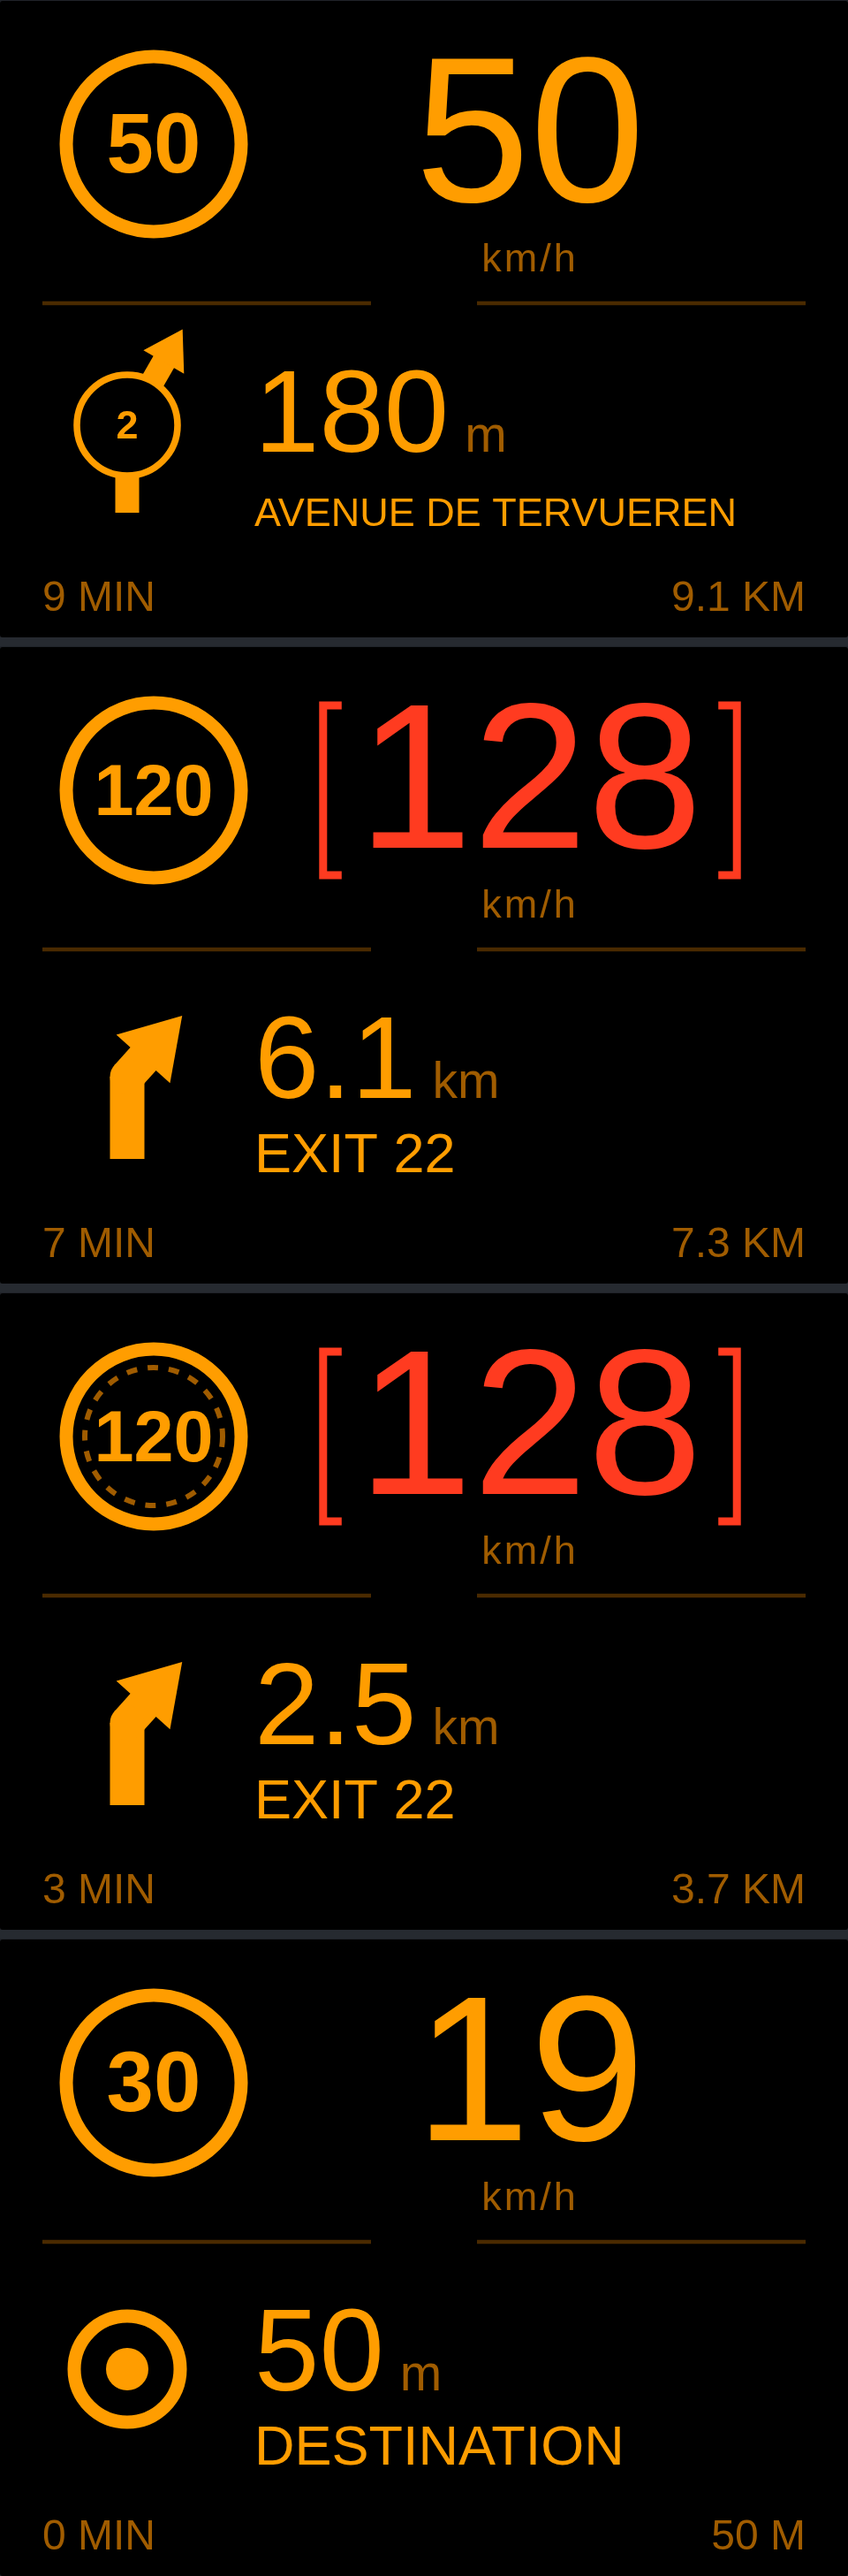
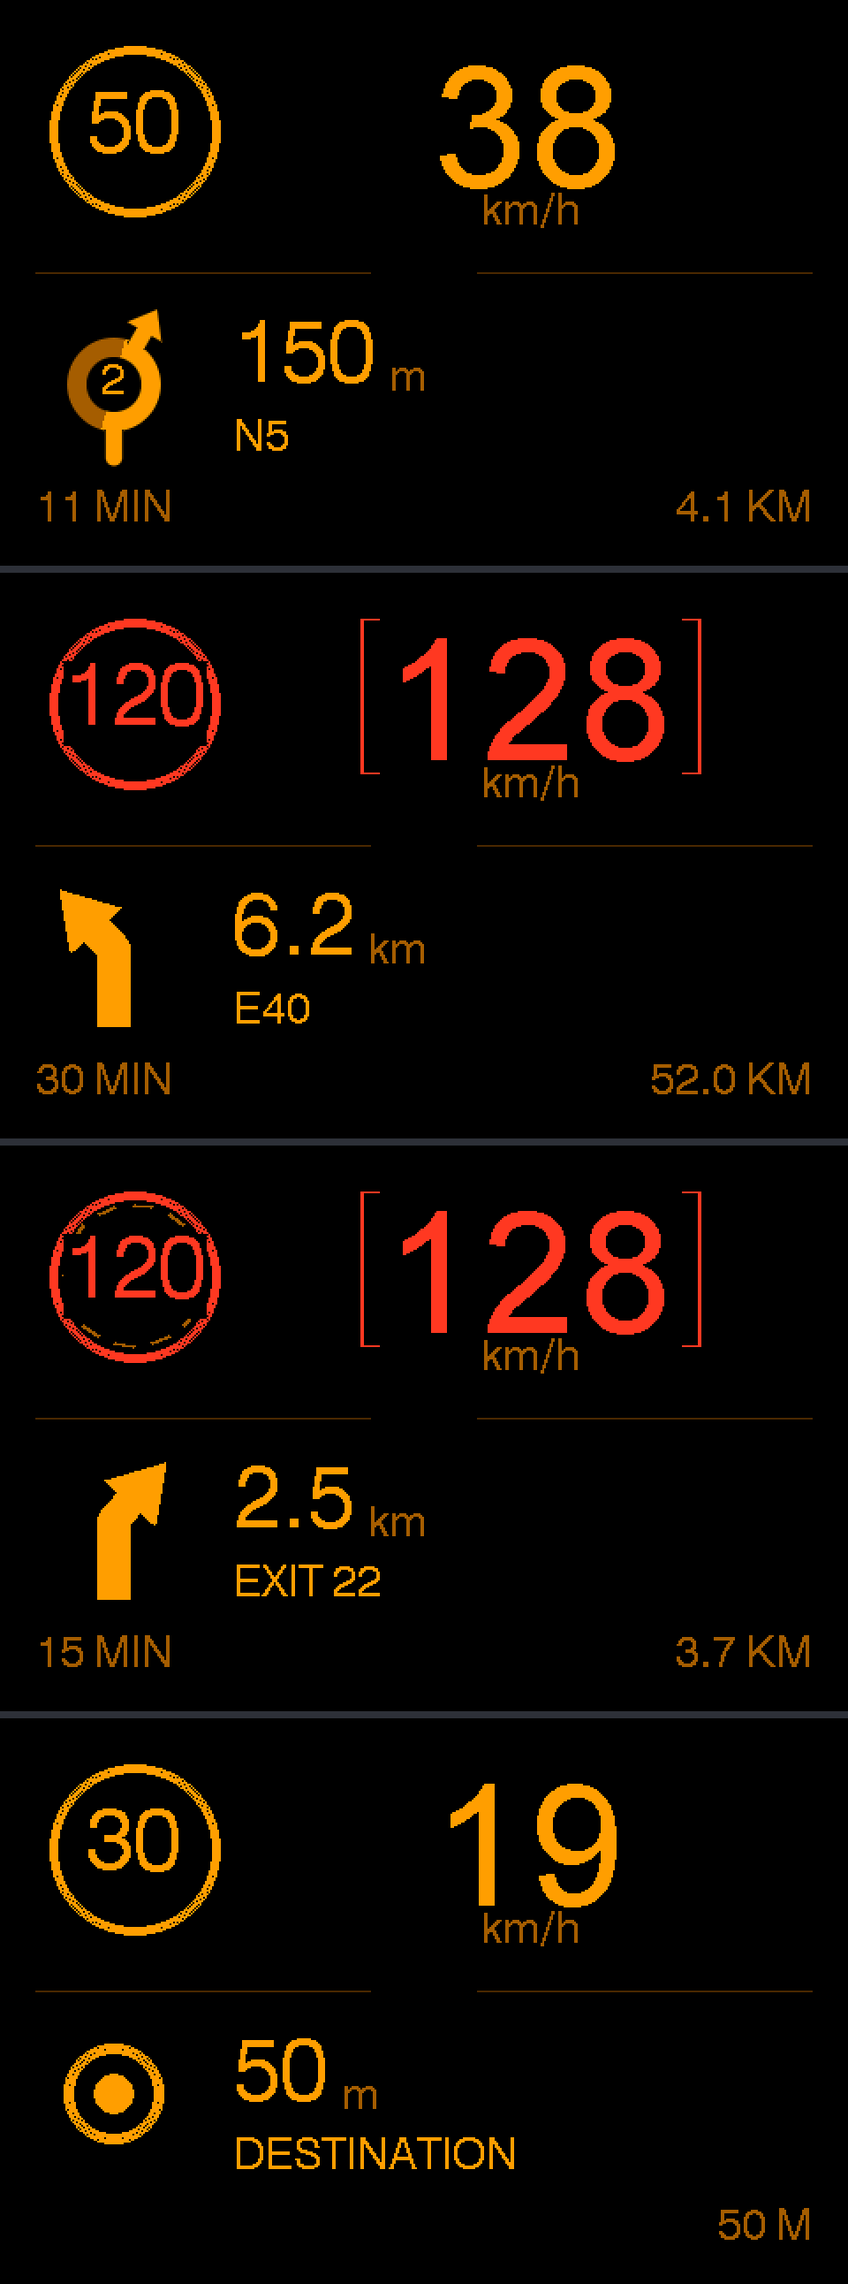
Docs: README pictures redrawn from the 2.8 firmware
The pictures showed the old 320x240 screen and the 2.7 roundabout. They are
now the firmware's own framebuffer from `make render` (480x320, 2x):
- hud-states.png: the default dash theme, four moments of a drive
- hud-e60.png: the same four in the E60 theme
- hud-themes.png: one moment in both themes
- hud-roundabouts.png (new): the roundabout exits, as approved for 2.8
`make docs-images` (arduino/test/docs_images.py, needs Pillow) rebuilds
them. README: the diagram names the real board and screen (ESP8266,
ST7796 480x320), the text matches the pictures, and "Install the app"
points to the Releases page instead of the apk/ folder that no longer
exists.

Claude-Session: https://claude.ai/code/session_01E3HoeeUR4dV9iZLd4Eqfe2

diff --git a/arduino/test/docs_images.py b/arduino/test/docs_images.py
@@ -1,0 +1,93 @@
+#!/usr/bin/env python3
+"""The HUD pictures in docs/img/ (shown in README.md), cut from `make render`.
+
+    make docs-images        (python3 with Pillow: pip install pillow)
+
+Every picture is the firmware's own framebuffer (render_screens.cpp), scaled
+2x without smoothing. Re-run after changing what the HUD draws, and commit
+docs/img/.
+"""
+import glob
+import os
+
+from PIL import Image, ImageDraw, ImageFont
+
+OUT = 'out'
+DOCS = os.path.join('..', '..', 'docs', 'img')
+SCALE = 2
+GAP, GAP_RGB, BG_RGB, LABEL_RGB = 8, (45, 48, 56), (28, 28, 28), (190, 190, 190)
+
+# README's four moments: a roundabout, over the limit, over a remembered
+# limit (the dashed ring), arrival.
+DRIVE = ['rab_1_oclock', 'over_limit_merge_6km', 'over_limit_low_conf_ramp', 'arrived']
+
+# The roundabout gallery: the dash theme's turn zone.
+RAB_BOX = (0, 66, 163, 184)
+RABS = [
+    ("exit at 9 o'clock", 'rab_9_oclock'),
+    ("exit at 10 o'clock", 'rab_10_oclock'),
+    ("exit at 12 o'clock", 'rab_12_oclock'),
+    ("exit at 1 o'clock", 'rab_1_oclock'),
+    ("exit at 4 o'clock", 'rab_4_oclock'),
+    ('U-turn', 'rab_uturn'),
+    ("left-hand traffic, 9 o'clock", 'rab_left_traffic_9'),
+    ("left-hand traffic, 3 o'clock", 'rab_left_traffic_3'),
+    ('left-hand traffic, U-turn', 'rab_left_traffic_uturn'),
+    ('far away: dimmed', 'rab_far_dimmed'),
+    ('no angle: exit-number guess', 'rab_no_angle_table'),
+    ('exit 9, nothing known', 'rab_no_angle_bare_ring'),
+]
+
+
+def shot(theme, name):
+    found = glob.glob(os.path.join(OUT, f'{theme}_*_{name}.png'))
+    if len(found) != 1:
+        raise SystemExit(f'{theme} {name}: {len(found)} match(es) in {OUT}/ -- run make render')
+    return Image.open(found[0]).convert('RGB')
+
+
+def big(im):
+    return im.resize((im.width * SCALE, im.height * SCALE), Image.NEAREST)
+
+
+def stack(ims):
+    sheet = Image.new('RGB', (ims[0].width, sum(i.height for i in ims) + GAP * (len(ims) - 1)), GAP_RGB)
+    y = 0
+    for im in ims:
+        sheet.paste(im, (0, y))
+        y += im.height + GAP
+    return sheet
+
+
+def font(size):
+    for name in ('DejaVuSans.ttf', 'arial.ttf'):
+        try:
+            return ImageFont.truetype(name, size)
+        except OSError:
+            pass
+    return ImageFont.load_default()
+
+
+def gallery(cases, box, cols=4, pad=16, label_h=24):
+    tiles = [big(shot('dash', f).crop(box)) for _, f in cases]
+    w, h = tiles[0].size
+    rows = (len(tiles) + cols - 1) // cols
+    sheet = Image.new('RGB', (pad + cols * (w + pad), pad + rows * (h + label_h + pad)), BG_RGB)
+    d, f = ImageDraw.Draw(sheet), font(17)
+    for i, ((label, _), tile) in enumerate(zip(cases, tiles)):
+        x, y = pad + (i % cols) * (w + pad), pad + (i // cols) * (h + label_h + pad)
+        d.text((x, y), label, font=f, fill=LABEL_RGB)
+        sheet.paste(tile, (x, y + label_h))
+    return sheet
+
+
+def save(im, name):
+    path = os.path.join(DOCS, name)
+    im.save(path, optimize=True)
+    print(f'  {path}  {im.width}x{im.height}')
+
+
+save(stack([big(shot('e60', n)) for n in DRIVE]), 'hud-e60.png')
+save(stack([big(shot('dash', n)) for n in DRIVE]), 'hud-states.png')
+save(stack([big(shot(t, DRIVE[0])) for t in ('dash', 'e60')]), 'hud-themes.png')
+save(gallery(RABS, RAB_BOX), 'hud-roundabouts.png')

diff --git a/README.md b/README.md
@@ -7,25 +7,37 @@ spoken guidance, and pushes speed limit, turn arrow, distance and ETA down a USB
 cable to an Arduino-class board driving a TFT.
 
 ```
-   Android head unit                               ESP32 / Arduino
+   Android head unit                               ESP8266 (D1 mini)
   ┌────────────────────────┐                      ┌──────────────────┐
   │ GPS @ 1 Hz             │                      │  NMEA-style      │
   │ Mapbox Directions      │   USB serial         │  parser          │
   │   + maxspeed           │ ───────────────────► │        ↓         │
-  │ RouteTracker           │   $HUD,...*CS        │  ILI9341 TFT     │
-  │   projection, limits   │   115200 8N1, 4 Hz   │  320×240         │
-  │ Map · search · voice   │                      │  E60 amber theme │
+  │ RouteTracker           │   $HUD,...*CS        │  ST7796 TFT      │
+  │   projection, limits   │   115200 8N1, 4 Hz   │  480×320         │
+  │ Map · search · voice   │                      │  dash/E60 themes │
   └────────────────────────┘                      └──────────────────┘
 ```
 
-![The four main display states in the E60 theme](docs/img/hud-e60.png)
+![Four moments of a drive in the default dash theme](docs/img/hud-states.png)
 
-Top to bottom: approaching a roundabout with the exit number, cruising the
-motorway 8 over the limit (BMW's bracket treatment on the number), a stretch
-where the map has no speed-limit data — the dashed inner ring means "this is the
-last limit I knew about" — and arrival.
+The default dash theme, top to bottom: approaching a roundabout (exit 2, the
+arrow at the exit's real angle), 8 over the limit on the motorway (the speed
+turns red), the ramp off it, and arrival. Along the top, the car's own data from
+the CAN bus: rev bar, battery, power and peak power.
 
-A full-colour theme is included too; one `#define` switches between them.
+![The same four moments in the E60 theme](docs/img/hud-e60.png)
+
+The E60 theme (define `HUD_THEME_E60_CLASSIC`) puts BMW's brackets round an
+over-limit speed, and a dashed inner ring round a limit on a stretch where the
+map has no speed-limit data — "this is the last limit I knew about".
+
+![Roundabout exits as the HUD draws them](docs/img/hud-roundabouts.png)
+
+Roundabouts: the ring dim, the path you drive bright, the arrow at the exit's
+real angle from the route, mirrored where traffic keeps left. With no angle it
+guesses from the exit number, and when it cannot guess it draws a bare ring.
+The phone's turn card draws the same. All these pictures are the firmware's own
+drawing, rendered on a PC: `cd arduino/test && make docs-images`.
 
 Open `tools/layout_preview.html` in a browser to play the whole drive, flip
 themes, and tune the layout before you flash anything.
@@ -62,7 +74,6 @@ tools/layout_preview.html  the display in a browser, for tuning the layout
 tools/geo_reference.py     Python port of Geo.kt, verifies the geometry
 tools/tracker_reference.py Python port of RouteTracker.kt, verifies the logic
 tools/voice_reference.py   Python port of VoiceGuide.kt, prints the transcript
-apk/                a signed, installable build — see apk/README.md
 docs/BUILD.md       parts, wiring, power, head units, mounting
 docs/PROVIDERS.md   why Mapbox, and how to swap in HERE / TomTom / Valhalla
 docs/WAZE.md        feature-by-feature comparison with Waze
@@ -71,10 +82,11 @@ PROTOCOL.md         the wire format
 
 ## Install the app
 
-A signed APK is in [`apk/NavHUD-1.0.apk`](apk/) — Android 7.0 or newer. Copy it
-across, open it with a file manager, allow the install. Then paste a free Mapbox
-token on the Setup screen (the token is entered in the app, not baked into the
-build, so this APK works for anyone). Full notes in [apk/README.md](apk/README.md).
+Every version is a signed APK on the
+[Releases page](https://github.com/mihaigabriel620/navhud-claude/releases) —
+Android 7.0 or newer. Copy it across, open it with a file manager, allow the
+install. Then paste a free Mapbox token on the Setup screen (the token is entered
+in the app, not baked into the build, so this APK works for anyone).
 
 ## Getting it running
 

diff --git a/CLAUDE.md b/CLAUDE.md
@@ -80,6 +80,8 @@ Waze / Google Maps everywhere.
   the python reference models — needs python3) and `make render` (PNGs of every
   screen state, both themes, into `arduino/test/out/`, readable orientation;
   also runs pixel checks — a field drawn alone must survive the full screen).
+  `make docs-images` rebuilds README's pictures in `docs/img/` from those
+  renders (needs Pillow); rerun it whenever what the HUD draws changes.
   On the owner's PC use `mingw32-make` from WinLibs GCC (not on PATH in older
   shells:
   `%LOCALAPPDATA%\Microsoft\WinGet\Packages\BrechtSanders.WinLibs.POSIX.UCRT_*\mingw64\bin`).
